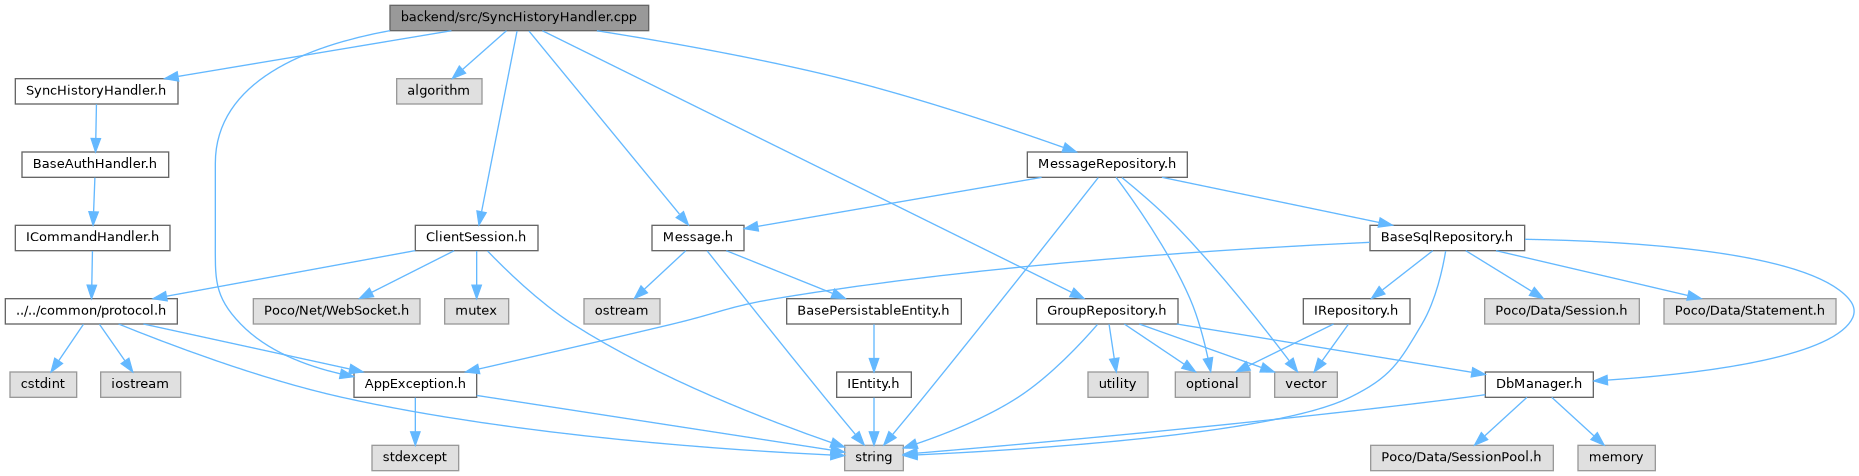
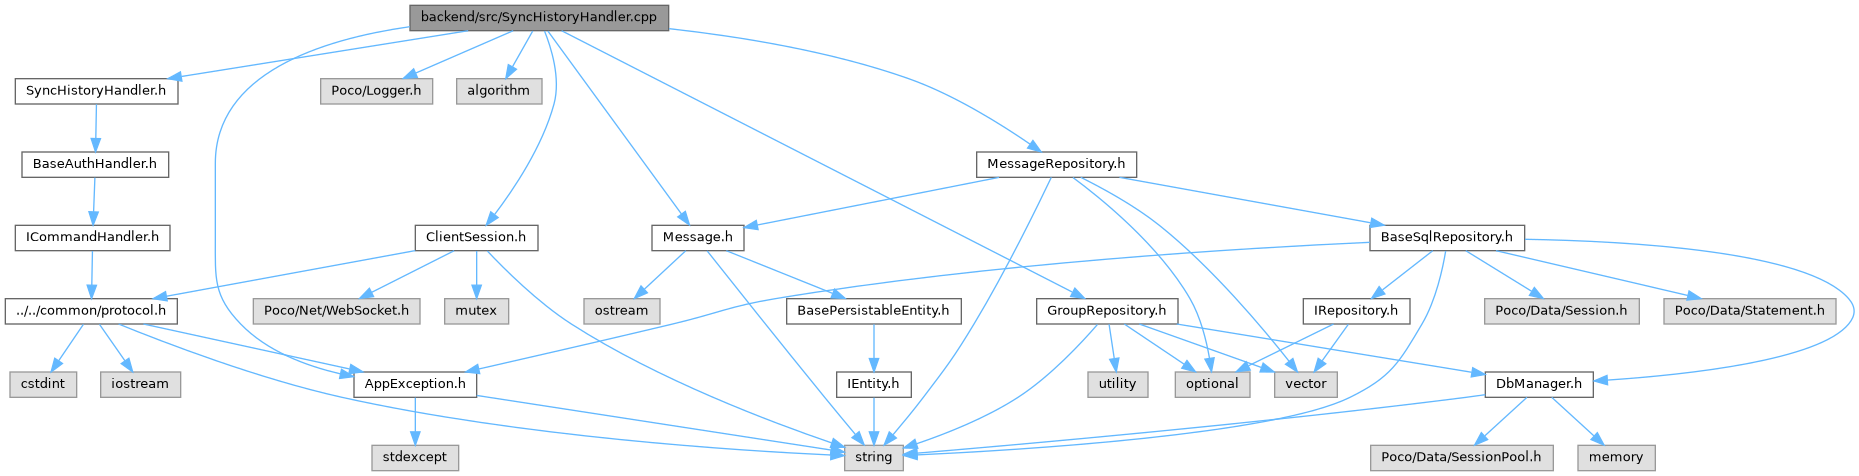
deploy: 4bb3781e60c52d7025261afa7cdc714544fd3718

diff --git a/NetworkManager_8h_source.html b/NetworkManager_8h_source.html
@@ -306,31 +306,31 @@ $(document).ready(function(){initNavTree('NetworkManager_8h_source.html',''); in
 <div class="ttc" id="aclassNetworkManager_html_a1be3096d9f6e5b0fd5faeb7f16dc3c7b"><div class="ttname"><a href="classNetworkManager.html#a1be3096d9f6e5b0fd5faeb7f16dc3c7b">NetworkManager::groupKeyUpdated</a></div><div class="ttdeci">void groupKeyUpdated(const QString &amp;groupId)</div><div class="ttdoc">Emitted when the group AES key is updated after a key rotation.</div></div>
 <div class="ttc" id="aclassNetworkManager_html_a1ebefc3b8b1ad69040decb2ed1f3cb57"><div class="ttname"><a href="classNetworkManager.html#a1ebefc3b8b1ad69040decb2ed1f3cb57">NetworkManager::groupMessageDecrypted</a></div><div class="ttdeci">void groupMessageDecrypted(const QString &amp;groupId, const QString &amp;sender, const QString &amp;plaintext, const QString &amp;timestamp, bool isOutgoing)</div><div class="ttdoc">Emitted when an incoming group message is successfully decrypted.</div></div>
 <div class="ttc" id="aclassNetworkManager_html_a257318584ac0bf9569d5873314ad5d82"><div class="ttname"><a href="classNetworkManager.html#a257318584ac0bf9569d5873314ad5d82">NetworkManager::convListUpdated</a></div><div class="ttdeci">void convListUpdated(const QString &amp;peer, const QString &amp;lastMessage, const QString &amp;lastTimestamp)</div><div class="ttdoc">Emitted after loading local history and on new messages - updates conversation list.</div></div>
-<div class="ttc" id="aclassNetworkManager_html_a2e9f2e60df7673bec45af42c104d4f72"><div class="ttname"><a href="classNetworkManager.html#a2e9f2e60df7673bec45af42c104d4f72">NetworkManager::logout</a></div><div class="ttdeci">Q_INVOKABLE void logout()</div><div class="ttdoc">Clear session state and return to login without closing the WebSocket.</div><div class="ttdef"><b>Definition</b> NetworkManager.cpp:371</div></div>
+<div class="ttc" id="aclassNetworkManager_html_a2e9f2e60df7673bec45af42c104d4f72"><div class="ttname"><a href="classNetworkManager.html#a2e9f2e60df7673bec45af42c104d4f72">NetworkManager::logout</a></div><div class="ttdeci">Q_INVOKABLE void logout()</div><div class="ttdoc">Clear session state and return to login without closing the WebSocket.</div><div class="ttdef"><b>Definition</b> NetworkManager.cpp:373</div></div>
 <div class="ttc" id="aclassNetworkManager_html_a2f815193125adfb0eb520665d8a87f5c"><div class="ttname"><a href="classNetworkManager.html#a2f815193125adfb0eb520665d8a87f5c">NetworkManager::sendLogin</a></div><div class="ttdeci">Q_INVOKABLE void sendLogin(const QString &amp;username, const QString &amp;password)</div><div class="ttdoc">Send a LOGIN packet with username and password.</div><div class="ttdef"><b>Definition</b> NetworkManager.cpp:60</div></div>
-<div class="ttc" id="aclassNetworkManager_html_a33e99021de03ebe32588f703e0a27cdc"><div class="ttname"><a href="classNetworkManager.html#a33e99021de03ebe32588f703e0a27cdc">NetworkManager::deleteGroup</a></div><div class="ttdeci">Q_INVOKABLE void deleteGroup(const QString &amp;groupId)</div><div class="ttdoc">Send DELETE_GROUP packet to permanently delete the group (creator only).</div><div class="ttdef"><b>Definition</b> NetworkManager.cpp:523</div></div>
+<div class="ttc" id="aclassNetworkManager_html_a33e99021de03ebe32588f703e0a27cdc"><div class="ttname"><a href="classNetworkManager.html#a33e99021de03ebe32588f703e0a27cdc">NetworkManager::deleteGroup</a></div><div class="ttdeci">Q_INVOKABLE void deleteGroup(const QString &amp;groupId)</div><div class="ttdoc">Send DELETE_GROUP packet to permanently delete the group (creator only).</div><div class="ttdef"><b>Definition</b> NetworkManager.cpp:525</div></div>
 <div class="ttc" id="aclassNetworkManager_html_a3c9d18963e77a155faf338b86927e2e5"><div class="ttname"><a href="classNetworkManager.html#a3c9d18963e77a155faf338b86927e2e5">NetworkManager::disconnected</a></div><div class="ttdeci">void disconnected()</div></div>
-<div class="ttc" id="aclassNetworkManager_html_a42fd9a51d9f3036d7156a0d64bdbd08d"><div class="ttname"><a href="classNetworkManager.html#a42fd9a51d9f3036d7156a0d64bdbd08d">NetworkManager::leaveGroup</a></div><div class="ttdeci">Q_INVOKABLE void leaveGroup(const QString &amp;groupId)</div><div class="ttdoc">Leave a group voluntarily.</div><div class="ttdef"><b>Definition</b> NetworkManager.cpp:515</div></div>
-<div class="ttc" id="aclassNetworkManager_html_a487b7f0a5ef2af0dfd9e2b53959d308c"><div class="ttname"><a href="classNetworkManager.html#a487b7f0a5ef2af0dfd9e2b53959d308c">NetworkManager::grantAdmin</a></div><div class="ttdeci">Q_INVOKABLE void grantAdmin(const QString &amp;groupId, const QString &amp;username)</div><div class="ttdoc">Creator: grant admin role to a member.</div><div class="ttdef"><b>Definition</b> NetworkManager.cpp:505</div></div>
-<div class="ttc" id="aclassNetworkManager_html_a4cbb3b8a327c5af1f67b65a8cfe0ab8d"><div class="ttname"><a href="classNetworkManager.html#a4cbb3b8a327c5af1f67b65a8cfe0ab8d">NetworkManager::sendGroupMessage</a></div><div class="ttdeci">Q_INVOKABLE void sendGroupMessage(const QString &amp;groupId, const QString &amp;plaintext, const QString &amp;timestamp)</div><div class="ttdoc">Encrypt and send a group message.</div><div class="ttdef"><b>Definition</b> NetworkManager.cpp:442</div></div>
+<div class="ttc" id="aclassNetworkManager_html_a42fd9a51d9f3036d7156a0d64bdbd08d"><div class="ttname"><a href="classNetworkManager.html#a42fd9a51d9f3036d7156a0d64bdbd08d">NetworkManager::leaveGroup</a></div><div class="ttdeci">Q_INVOKABLE void leaveGroup(const QString &amp;groupId)</div><div class="ttdoc">Leave a group voluntarily.</div><div class="ttdef"><b>Definition</b> NetworkManager.cpp:517</div></div>
+<div class="ttc" id="aclassNetworkManager_html_a487b7f0a5ef2af0dfd9e2b53959d308c"><div class="ttname"><a href="classNetworkManager.html#a487b7f0a5ef2af0dfd9e2b53959d308c">NetworkManager::grantAdmin</a></div><div class="ttdeci">Q_INVOKABLE void grantAdmin(const QString &amp;groupId, const QString &amp;username)</div><div class="ttdoc">Creator: grant admin role to a member.</div><div class="ttdef"><b>Definition</b> NetworkManager.cpp:507</div></div>
+<div class="ttc" id="aclassNetworkManager_html_a4cbb3b8a327c5af1f67b65a8cfe0ab8d"><div class="ttname"><a href="classNetworkManager.html#a4cbb3b8a327c5af1f67b65a8cfe0ab8d">NetworkManager::sendGroupMessage</a></div><div class="ttdeci">Q_INVOKABLE void sendGroupMessage(const QString &amp;groupId, const QString &amp;plaintext, const QString &amp;timestamp)</div><div class="ttdoc">Encrypt and send a group message.</div><div class="ttdef"><b>Definition</b> NetworkManager.cpp:444</div></div>
 <div class="ttc" id="aclassNetworkManager_html_a5a95bfdbdf91e47e8341ef89bae23b9d"><div class="ttname"><a href="classNetworkManager.html#a5a95bfdbdf91e47e8341ef89bae23b9d">NetworkManager::currentUsernameChanged</a></div><div class="ttdeci">void currentUsernameChanged()</div></div>
 <div class="ttc" id="aclassNetworkManager_html_a5e470cae21687ac465bd3ded727f5c88"><div class="ttname"><a href="classNetworkManager.html#a5e470cae21687ac465bd3ded727f5c88">NetworkManager::messageSeen</a></div><div class="ttdeci">void messageSeen(const QString &amp;peer, const QString &amp;timestamp)</div><div class="ttdoc">Emitted when the recipient confirms they have read a specific message.</div></div>
 <div class="ttc" id="aclassNetworkManager_html_a603d801e6200da430707381ba39241c2"><div class="ttname"><a href="classNetworkManager.html#a603d801e6200da430707381ba39241c2">NetworkManager::messageReceived</a></div><div class="ttdeci">void messageReceived(const QString &amp;message)</div><div class="ttdoc">Raw inbound wire message forwarded to QML.</div></div>
 <div class="ttc" id="aclassNetworkManager_html_a63f17e322ae0d09f6c0c1d8b9c54a0b5"><div class="ttname"><a href="classNetworkManager.html#a63f17e322ae0d09f6c0c1d8b9c54a0b5">NetworkManager::connectionChanged</a></div><div class="ttdeci">void connectionChanged()</div></div>
 <div class="ttc" id="aclassNetworkManager_html_a6b6ee9cf02e7df2a766d5db74c4d2125"><div class="ttname"><a href="classNetworkManager.html#a6b6ee9cf02e7df2a766d5db74c4d2125">NetworkManager::errorOcurred</a></div><div class="ttdeci">void errorOcurred(const QString &amp;errorString)</div></div>
-<div class="ttc" id="aclassNetworkManager_html_a755b08070053e360640b1b9caa4d737d"><div class="ttname"><a href="classNetworkManager.html#a755b08070053e360640b1b9caa4d737d">NetworkManager::createGroup</a></div><div class="ttdeci">Q_INVOKABLE void createGroup(const QString &amp;name, const QStringList &amp;members)</div><div class="ttdoc">Create a new group. Encrypts AES key for each member via RSA.</div><div class="ttdef"><b>Definition</b> NetworkManager.cpp:397</div></div>
+<div class="ttc" id="aclassNetworkManager_html_a755b08070053e360640b1b9caa4d737d"><div class="ttname"><a href="classNetworkManager.html#a755b08070053e360640b1b9caa4d737d">NetworkManager::createGroup</a></div><div class="ttdeci">Q_INVOKABLE void createGroup(const QString &amp;name, const QStringList &amp;members)</div><div class="ttdoc">Create a new group. Encrypts AES key for each member via RSA.</div><div class="ttdef"><b>Definition</b> NetworkManager.cpp:399</div></div>
 <div class="ttc" id="aclassNetworkManager_html_a91ed9c1374f6c18b78c66aec883da39a"><div class="ttname"><a href="classNetworkManager.html#a91ed9c1374f6c18b78c66aec883da39a">NetworkManager::syncComplete</a></div><div class="ttdeci">void syncComplete()</div><div class="ttdoc">Emitted after the server ACKs a SYNC_HISTORY request.</div></div>
 <div class="ttc" id="aclassNetworkManager_html_a9bc6679afab43814e185aecb262cedaa"><div class="ttname"><a href="classNetworkManager.html#a9bc6679afab43814e185aecb262cedaa">NetworkManager::markConversationRead</a></div><div class="ttdeci">Q_INVOKABLE void markConversationRead(const QString &amp;peer)</div><div class="ttdoc">Send READ_RECEIPT packets for all unread messages from peer.</div><div class="ttdef"><b>Definition</b> NetworkManager.cpp:99</div></div>
 <div class="ttc" id="aclassNetworkManager_html_a9cfd3cf00804e0f1daa8483507b0b9e6"><div class="ttname"><a href="classNetworkManager.html#a9cfd3cf00804e0f1daa8483507b0b9e6">NetworkManager::historySyncMessage</a></div><div class="ttdeci">void historySyncMessage(const QString &amp;peer, const QString &amp;sender, const QString &amp;content, const QString &amp;timestamp, bool isOutgoing, const QString &amp;status=&quot;sent&quot;)</div><div class="ttdoc">Emitted once per stored message during local history load on login.</div></div>
-<div class="ttc" id="aclassNetworkManager_html_a9fddd966911296b4a40f1fda0362f57a"><div class="ttname"><a href="classNetworkManager.html#a9fddd966911296b4a40f1fda0362f57a">NetworkManager::getGroupName</a></div><div class="ttdeci">Q_INVOKABLE QString getGroupName(const QString &amp;groupId) const</div><div class="ttdoc">Return the stored display name for a group, or groupId if unknown.</div><div class="ttdef"><b>Definition</b> NetworkManager.cpp:676</div></div>
+<div class="ttc" id="aclassNetworkManager_html_a9fddd966911296b4a40f1fda0362f57a"><div class="ttname"><a href="classNetworkManager.html#a9fddd966911296b4a40f1fda0362f57a">NetworkManager::getGroupName</a></div><div class="ttdeci">Q_INVOKABLE QString getGroupName(const QString &amp;groupId) const</div><div class="ttdoc">Return the stored display name for a group, or groupId if unknown.</div><div class="ttdef"><b>Definition</b> NetworkManager.cpp:678</div></div>
 <div class="ttc" id="aclassNetworkManager_html_aa077749a5aa5408084811f07643df6a9"><div class="ttname"><a href="classNetworkManager.html#aa077749a5aa5408084811f07643df6a9">NetworkManager::sendMessage</a></div><div class="ttdeci">Q_INVOKABLE void sendMessage(const QString &amp;to, const QString &amp;plaintext, const QString &amp;timestamp=QString())</div><div class="ttdoc">Encrypt plaintext and send a MESSAGE packet to 'to'.</div><div class="ttdef"><b>Definition</b> NetworkManager.cpp:69</div></div>
 <div class="ttc" id="aclassNetworkManager_html_aa2d7233230f2d609c31d9fd064c2f461"><div class="ttname"><a href="classNetworkManager.html#aa2d7233230f2d609c31d9fd064c2f461">NetworkManager::connected</a></div><div class="ttdeci">void connected()</div></div>
 <div class="ttc" id="aclassNetworkManager_html_aa5e7b25d9a603077169f10aa9bc0485d"><div class="ttname"><a href="classNetworkManager.html#aa5e7b25d9a603077169f10aa9bc0485d">NetworkManager::connectToServer</a></div><div class="ttdeci">void connectToServer(const QUrl &amp;url)</div><div class="ttdoc">Open a WebSocket connection to the given URL.</div><div class="ttdef"><b>Definition</b> NetworkManager.cpp:40</div></div>
 <div class="ttc" id="aclassNetworkManager_html_aa9be8fd0f61070537dcda37964be6986"><div class="ttname"><a href="classNetworkManager.html#aa9be8fd0f61070537dcda37964be6986">NetworkManager::fetchPeerKey</a></div><div class="ttdeci">Q_INVOKABLE void fetchPeerKey(const QString &amp;username)</div><div class="ttdoc">Request peer's RSA public key from the server.</div><div class="ttdef"><b>Definition</b> NetworkManager.cpp:79</div></div>
-<div class="ttc" id="aclassNetworkManager_html_ab0e4e845f992abd7842feb9ef8a83ae3"><div class="ttname"><a href="classNetworkManager.html#ab0e4e845f992abd7842feb9ef8a83ae3">NetworkManager::addGroupMember</a></div><div class="ttdeci">Q_INVOKABLE void addGroupMember(const QString &amp;groupId, const QString &amp;username)</div><div class="ttdoc">Admin: add a new member to a group.</div><div class="ttdef"><b>Definition</b> NetworkManager.cpp:481</div></div>
+<div class="ttc" id="aclassNetworkManager_html_ab0e4e845f992abd7842feb9ef8a83ae3"><div class="ttname"><a href="classNetworkManager.html#ab0e4e845f992abd7842feb9ef8a83ae3">NetworkManager::addGroupMember</a></div><div class="ttdeci">Q_INVOKABLE void addGroupMember(const QString &amp;groupId, const QString &amp;username)</div><div class="ttdoc">Admin: add a new member to a group.</div><div class="ttdef"><b>Definition</b> NetworkManager.cpp:483</div></div>
 <div class="ttc" id="aclassNetworkManager_html_ab7c6e64b70fa96f558f026d263f1424b"><div class="ttname"><a href="classNetworkManager.html#ab7c6e64b70fa96f558f026d263f1424b">NetworkManager::groupInviteReceived</a></div><div class="ttdeci">void groupInviteReceived(const QString &amp;groupId, const QString &amp;groupName)</div><div class="ttdoc">Emitted when the server sends a GROUP_INVITE packet for the current user.</div></div>
 <div class="ttc" id="aclassNetworkManager_html_abd6c36aa7591e7b20dcf761b90e718fa"><div class="ttname"><a href="classNetworkManager.html#abd6c36aa7591e7b20dcf761b90e718fa">NetworkManager::groupInfoReceived</a></div><div class="ttdeci">void groupInfoReceived(const QString &amp;groupId, const QString &amp;groupName, const QVariantList &amp;members)</div><div class="ttdoc">Emitted when group info (member list, roles) is received from the server.</div></div>
-<div class="ttc" id="aclassNetworkManager_html_ac08ca33cae1af5055a9d188b7ca65250"><div class="ttname"><a href="classNetworkManager.html#ac08ca33cae1af5055a9d188b7ca65250">NetworkManager::deleteConversation</a></div><div class="ttdeci">Q_INVOKABLE void deleteConversation(const QString &amp;peer)</div><div class="ttdoc">Delete a conversation from local cache. Messages stay on the server.</div><div class="ttdef"><b>Definition</b> NetworkManager.cpp:531</div></div>
+<div class="ttc" id="aclassNetworkManager_html_ac08ca33cae1af5055a9d188b7ca65250"><div class="ttname"><a href="classNetworkManager.html#ac08ca33cae1af5055a9d188b7ca65250">NetworkManager::deleteConversation</a></div><div class="ttdeci">Q_INVOKABLE void deleteConversation(const QString &amp;peer)</div><div class="ttdoc">Delete a conversation from local cache. Messages stay on the server.</div><div class="ttdef"><b>Definition</b> NetworkManager.cpp:533</div></div>
 <div class="ttc" id="aclassNetworkManager_html_ac80ed49c1ac856357e683ab36e2c6ff4"><div class="ttname"><a href="classNetworkManager.html#ac80ed49c1ac856357e683ab36e2c6ff4">NetworkManager::conversationDeleted</a></div><div class="ttdeci">void conversationDeleted(const QString &amp;peer)</div><div class="ttdoc">Emitted after a conversation is deleted from local cache.</div></div>
 <div class="ttc" id="aclassNetworkManager_html_acb5092184a7b088b3fa60f61106320cb"><div class="ttname"><a href="classNetworkManager.html#acb5092184a7b088b3fa60f61106320cb">NetworkManager::lastMessage</a></div><div class="ttdeci">QString lastMessage</div><div class="ttdef"><b>Definition</b> NetworkManager.h:31</div></div>
 <div class="ttc" id="aclassNetworkManager_html_ad0d5ac1ac81e96aa4c99b5399122c887"><div class="ttname"><a href="classNetworkManager.html#ad0d5ac1ac81e96aa4c99b5399122c887">NetworkManager::peerKeyReceived</a></div><div class="ttdeci">void peerKeyReceived(const QString &amp;username, const QString &amp;publicKey)</div><div class="ttdoc">Emitted when a KEY_EXCHANGE response delivers a peer's public key.</div></div>
@@ -338,12 +338,12 @@ $(document).ready(function(){initNavTree('NetworkManager_8h_source.html',''); in
 <div class="ttc" id="aclassNetworkManager_html_ad1a01cd412a0dde3f4e1dc77ad46e253"><div class="ttname"><a href="classNetworkManager.html#ad1a01cd412a0dde3f4e1dc77ad46e253">NetworkManager::sendSyncHistory</a></div><div class="ttdeci">Q_INVOKABLE void sendSyncHistory()</div><div class="ttdoc">Ask the server to push all missed messages for current user.</div><div class="ttdef"><b>Definition</b> NetworkManager.cpp:87</div></div>
 <div class="ttc" id="aclassNetworkManager_html_ae433b408a3a5b19bc4155008aa2f93ea"><div class="ttname"><a href="classNetworkManager.html#ae433b408a3a5b19bc4155008aa2f93ea">NetworkManager::lastMessageChanged</a></div><div class="ttdeci">void lastMessageChanged()</div></div>
 <div class="ttc" id="aclassNetworkManager_html_ae7c5fa5545a263b2e75c41b9aaa6f2ba"><div class="ttname"><a href="classNetworkManager.html#ae7c5fa5545a263b2e75c41b9aaa6f2ba">NetworkManager::groupConvUpdated</a></div><div class="ttdeci">void groupConvUpdated(const QString &amp;groupId, const QString &amp;groupName, const QString &amp;lastMessage, const QString &amp;lastTimestamp)</div><div class="ttdoc">Emitted once per group during local history load for sidebar population.</div></div>
-<div class="ttc" id="aclassNetworkManager_html_ae8e6cd3d31f5d221cabad85e21ddc009"><div class="ttname"><a href="classNetworkManager.html#ae8e6cd3d31f5d221cabad85e21ddc009">NetworkManager::fetchGroupInfo</a></div><div class="ttdeci">Q_INVOKABLE void fetchGroupInfo(const QString &amp;groupId)</div><div class="ttdoc">Request updated group info (member list, roles).</div><div class="ttdef"><b>Definition</b> NetworkManager.cpp:536</div></div>
+<div class="ttc" id="aclassNetworkManager_html_ae8e6cd3d31f5d221cabad85e21ddc009"><div class="ttname"><a href="classNetworkManager.html#ae8e6cd3d31f5d221cabad85e21ddc009">NetworkManager::fetchGroupInfo</a></div><div class="ttdeci">Q_INVOKABLE void fetchGroupInfo(const QString &amp;groupId)</div><div class="ttdoc">Request updated group info (member list, roles).</div><div class="ttdef"><b>Definition</b> NetworkManager.cpp:538</div></div>
 <div class="ttc" id="aclassNetworkManager_html_af0902bd618f601ae0c472243a8a3e9bc"><div class="ttname"><a href="classNetworkManager.html#af0902bd618f601ae0c472243a8a3e9bc">NetworkManager::groupLeft</a></div><div class="ttdeci">void groupLeft(const QString &amp;groupId)</div><div class="ttdoc">Emitted when the current user has successfully left a group.</div></div>
-<div class="ttc" id="aclassNetworkManager_html_af19a5e79c92bb2c5beb0e4bcd2f8c2a2"><div class="ttname"><a href="classNetworkManager.html#af19a5e79c92bb2c5beb0e4bcd2f8c2a2">NetworkManager::kickMember</a></div><div class="ttdeci">Q_INVOKABLE void kickMember(const QString &amp;groupId, const QString &amp;username)</div><div class="ttdoc">Admin: kick a member from a group.</div><div class="ttdef"><b>Definition</b> NetworkManager.cpp:472</div></div>
+<div class="ttc" id="aclassNetworkManager_html_af19a5e79c92bb2c5beb0e4bcd2f8c2a2"><div class="ttname"><a href="classNetworkManager.html#af19a5e79c92bb2c5beb0e4bcd2f8c2a2">NetworkManager::kickMember</a></div><div class="ttdeci">Q_INVOKABLE void kickMember(const QString &amp;groupId, const QString &amp;username)</div><div class="ttdoc">Admin: kick a member from a group.</div><div class="ttdef"><b>Definition</b> NetworkManager.cpp:474</div></div>
 <div class="ttc" id="aclassNetworkManager_html_af4a48bde3701cd396dc455b413b3e8f6"><div class="ttname"><a href="classNetworkManager.html#af4a48bde3701cd396dc455b413b3e8f6">NetworkManager::messageDelivered</a></div><div class="ttdeci">void messageDelivered(const QString &amp;timestamp)</div><div class="ttdoc">Emitted when the server confirms receipt of an outgoing message.</div></div>
 <div class="ttc" id="aclassNetworkManager_html_af4bbe1ae11e54eb1c5a7f1ce07a51af2"><div class="ttname"><a href="classNetworkManager.html#af4bbe1ae11e54eb1c5a7f1ce07a51af2">NetworkManager::isConnected</a></div><div class="ttdeci">bool isConnected</div><div class="ttdef"><b>Definition</b> NetworkManager.h:30</div></div>
-<div class="ttc" id="aclassNetworkManager_html_aff1ef88014dd9590fa629dc0ddada3b8"><div class="ttname"><a href="classNetworkManager.html#aff1ef88014dd9590fa629dc0ddada3b8">NetworkManager::requestGroupKey</a></div><div class="ttdeci">void requestGroupKey(const QString &amp;groupId)</div><div class="ttdoc">Recover this user's wrapped group key from the server.</div><div class="ttdef"><b>Definition</b> NetworkManager.cpp:431</div></div>
+<div class="ttc" id="aclassNetworkManager_html_aff1ef88014dd9590fa629dc0ddada3b8"><div class="ttname"><a href="classNetworkManager.html#aff1ef88014dd9590fa629dc0ddada3b8">NetworkManager::requestGroupKey</a></div><div class="ttdeci">void requestGroupKey(const QString &amp;groupId)</div><div class="ttdoc">Recover this user's wrapped group key from the server.</div><div class="ttdef"><b>Definition</b> NetworkManager.cpp:433</div></div>
 <div class="ttc" id="astructPacket_html"><div class="ttname"><a href="structPacket.html">Packet</a></div><div class="ttdef"><b>Definition</b> protocol.h:35</div></div>
 </div><!-- fragment --></div><!-- contents -->
 </div><!-- doc-content -->

diff --git a/SyncHistoryHandler_8cpp.html b/SyncHistoryHandler_8cpp.html
@@ -93,6 +93,7 @@ $(document).ready(function(){initNavTree('SyncHistoryHandler_8cpp.html',''); ini
 </div><!--header-->
 <div class="contents">
 <div class="textblock"><code>#include &quot;<a class="el" href="SyncHistoryHandler_8h_source.html">SyncHistoryHandler.h</a>&quot;</code><br />
+<code>#include &lt;Poco/Logger.h&gt;</code><br />
 <code>#include &lt;algorithm&gt;</code><br />
 <code>#include &quot;<a class="el" href="AppException_8h_source.html">../../common/AppException.h</a>&quot;</code><br />
 <code>#include &quot;<a class="el" href="ClientSession_8h_source.html">ClientSession.h</a>&quot;</code><br />
@@ -104,21 +105,23 @@ Include dependency graph for SyncHistoryHandler.cpp:</div>
 <div class="dyncontent">
 <div class="center"><img src="SyncHistoryHandler_8cpp__incl.png" border="0" usemap="#abackend_2src_2SyncHistoryHandler_8cpp" alt=""/></div>
 <map name="abackend_2src_2SyncHistoryHandler_8cpp" id="abackend_2src_2SyncHistoryHandler_8cpp">
-<area shape="rect" title=" " alt="" coords="390,5,649,31"/>
+<area shape="rect" title=" " alt="" coords="410,5,669,31"/>
 <area shape="rect" href="SyncHistoryHandler_8h.html" title=" " alt="" coords="15,79,178,104"/>
-<area shape="poly" title=" " alt="" coords="452,33,179,79,178,74,451,28"/>
+<area shape="poly" title=" " alt="" coords="469,33,182,79,181,74,468,28"/>
 <area shape="rect" href="AppException_8h.html" title=" " alt="" coords="354,372,477,397"/>
-<area shape="poly" title=" " alt="" coords="391,33,329,49,273,74,251,91,233,111,222,135,218,164,218,239,220,285,228,303,243,322,264,340,288,354,341,371,339,376,286,358,261,344,239,326,223,306,215,286,213,239,213,163,217,134,229,109,247,87,270,70,327,44,389,28"/>
-<area shape="rect" title=" " alt="" coords="397,79,482,104"/>
-<area shape="poly" title=" " alt="" coords="508,33,464,72,461,68,505,29"/>
+<area shape="poly" title=" " alt="" coords="410,29,342,43,310,54,280,69,255,86,235,108,223,133,218,164,218,239,220,285,228,303,243,322,264,340,288,354,341,371,339,376,286,358,261,344,239,326,223,306,215,286,213,239,213,163,217,132,231,105,251,82,277,64,308,50,341,38,409,24"/>
+<area shape="rect" title=" " alt="" coords="321,79,433,104"/>
+<area shape="poly" title=" " alt="" coords="514,33,417,75,415,71,512,28"/>
+<area shape="rect" title=" " alt="" coords="457,79,542,104"/>
+<area shape="poly" title=" " alt="" coords="535,32,515,68,510,65,530,30"/>
 <area shape="rect" href="ClientSession_8h.html" title=" " alt="" coords="415,225,538,251"/>
-<area shape="poly" title=" " alt="" coords="520,32,484,212,479,211,514,31"/>
+<area shape="poly" title=" " alt="" coords="547,30,557,64,559,84,557,105,545,137,529,167,497,216,492,213,525,164,540,135,551,103,554,84,552,65,542,32"/>
 <area shape="rect" href="GroupRepository_8h.html" title=" " alt="" coords="1037,299,1178,324"/>
-<area shape="poly" title=" " alt="" coords="544,28,1073,290,1070,295,541,33"/>
+<area shape="poly" title=" " alt="" coords="563,28,1073,290,1071,294,560,33"/>
 <area shape="rect" href="Message_8h.html" title=" " alt="" coords="652,225,744,251"/>
-<area shape="poly" title=" " alt="" coords="531,29,681,212,677,216,527,33"/>
-<area shape="rect" href="MessageRepository_8h.html" title=" " alt="" coords="1027,152,1187,177"/>
-<area shape="poly" title=" " alt="" coords="597,28,714,48,843,76,964,111,1064,145,1063,150,962,116,841,81,712,53,596,33"/>
+<area shape="poly" title=" " alt="" coords="550,29,684,213,679,216,546,33"/>
+<area shape="rect" href="MessageRepository_8h.html" title=" " alt="" coords="977,152,1137,177"/>
+<area shape="poly" title=" " alt="" coords="669,26,788,44,850,58,910,76,977,108,1032,142,1029,146,974,112,908,81,848,63,787,49,669,31"/>
 <area shape="rect" href="BaseAuthHandler_8h.html" title=" " alt="" coords="22,152,169,177"/>
 <area shape="poly" title=" " alt="" coords="99,104,98,139,93,138,94,104"/>
 <area shape="rect" href="ICommandHandler_8h.html" title=" " alt="" coords="15,225,170,251"/>
@@ -136,7 +139,7 @@ Include dependency graph for SyncHistoryHandler.cpp:</div>
 <area shape="rect" title=" " alt="" coords="372,445,459,471"/>
 <area shape="poly" title=" " alt="" coords="418,398,418,432,413,432,413,398"/>
 <area shape="poly" title=" " alt="" coords="416,253,167,299,166,294,415,248"/>
-<area shape="poly" title=" " alt="" coords="489,249,525,284,574,322,642,360,713,394,832,440,831,445,711,399,640,365,571,326,522,288,486,253"/>
+<area shape="poly" title=" " alt="" coords="489,249,525,284,573,322,641,361,712,394,833,440,831,445,710,399,639,365,570,326,521,288,485,253"/>
 <area shape="rect" title=" " alt="" coords="253,299,420,324"/>
 <area shape="poly" title=" " alt="" coords="455,253,373,295,370,290,453,248"/>
 <area shape="rect" title=" " alt="" coords="445,299,509,324"/>
@@ -163,12 +166,12 @@ Include dependency graph for SyncHistoryHandler.cpp:</div>
 <area shape="rect" href="IEntity_8h.html" title=" " alt="" coords="837,372,911,397"/>
 <area shape="poly" title=" " alt="" coords="877,324,877,358,871,358,871,324"/>
 <area shape="poly" title=" " alt="" coords="877,398,877,432,871,432,871,398"/>
-<area shape="poly" title=" " alt="" coords="1100,179,925,399,895,436,891,433,921,396,1096,176"/>
-<area shape="poly" title=" " alt="" coords="1118,176,1154,227,1192,298,1211,357,1205,359,1188,300,1149,230,1114,179"/>
-<area shape="poly" title=" " alt="" coords="1124,176,1177,223,1242,296,1291,359,1287,362,1238,300,1173,227,1120,180"/>
-<area shape="poly" title=" " alt="" coords="1042,180,758,229,758,224,1041,175"/>
+<area shape="poly" title=" " alt="" coords="1054,179,1022,242,976,325,925,399,895,436,891,433,921,396,972,323,1018,239,1049,176"/>
+<area shape="poly" title=" " alt="" coords="1075,175,1132,224,1165,258,1192,297,1205,328,1212,357,1207,359,1200,329,1188,300,1161,262,1129,228,1071,180"/>
+<area shape="poly" title=" " alt="" coords="1082,175,1120,196,1161,223,1200,258,1236,295,1291,360,1287,363,1233,299,1196,262,1158,227,1117,200,1080,180"/>
+<area shape="poly" title=" " alt="" coords="1000,180,758,228,757,222,999,175"/>
 <area shape="rect" href="BaseSqlRepository_8h.html" title=" " alt="" coords="1370,225,1525,251"/>
-<area shape="poly" title=" " alt="" coords="1163,175,1380,220,1379,225,1161,180"/>
+<area shape="poly" title=" " alt="" coords="1120,175,1371,220,1370,225,1119,180"/>
 <area shape="poly" title=" " alt="" coords="1448,252,1441,286,1424,325,1395,370,1377,385,1351,400,1315,413,1265,424,1144,441,1017,452,917,458,917,452,1017,447,1143,436,1264,419,1313,408,1349,395,1374,381,1391,366,1420,323,1436,284,1443,250"/>
 <area shape="poly" title=" " alt="" coords="1370,245,1106,262,941,278,776,301,724,313,673,327,480,372,478,366,672,321,723,308,775,296,940,273,1105,257,1370,240"/>
 <area shape="poly" title=" " alt="" coords="1525,237,1614,240,1711,249,1796,267,1829,280,1851,297,1857,311,1851,326,1834,339,1811,350,1748,366,1676,377,1608,383,1607,377,1675,371,1747,361,1809,345,1832,334,1847,322,1851,311,1847,300,1826,285,1795,272,1710,254,1614,245,1525,242"/>

diff --git a/GroupRepository_8h_source.html b/GroupRepository_8h_source.html
@@ -168,7 +168,7 @@ $(document).ready(function(){initNavTree('GroupRepository_8h_source.html',''); i
 <div class="ttc" id="aDbManager_8h_html"><div class="ttname"><a href="DbManager_8h.html">DbManager.h</a></div></div>
 <div class="ttc" id="aclassGroupRepository_html"><div class="ttname"><a href="classGroupRepository.html">GroupRepository</a></div><div class="ttdoc">PostgreSQL-backed repository for groups, group_members, group_keys, group_messages.</div><div class="ttdef"><b>Definition</b> GroupRepository.h:46</div></div>
 <div class="ttc" id="aclassGroupRepository_html_a0639709942f521cf2d115b8d256debb5"><div class="ttname"><a href="classGroupRepository.html#a0639709942f521cf2d115b8d256debb5">GroupRepository::removeMember</a></div><div class="ttdeci">void removeMember(int groupId, const std::string &amp;username)</div><div class="ttdoc">Remove a member from a group.</div><div class="ttdef"><b>Definition</b> GroupRepository.cpp:59</div></div>
-<div class="ttc" id="aclassGroupRepository_html_a06d238dce5bbf0fbf0e4e6f4a3babcda"><div class="ttname"><a href="classGroupRepository.html#a06d238dce5bbf0fbf0e4e6f4a3babcda">GroupRepository::updateRole</a></div><div class="ttdeci">void updateRole(int groupId, const std::string &amp;username, const std::string &amp;newRole)</div><div class="ttdoc">Update a member's role.</div><div class="ttdef"><b>Definition</b> GroupRepository.cpp:244</div></div>
+<div class="ttc" id="aclassGroupRepository_html_a06d238dce5bbf0fbf0e4e6f4a3babcda"><div class="ttname"><a href="classGroupRepository.html#a06d238dce5bbf0fbf0e4e6f4a3babcda">GroupRepository::updateRole</a></div><div class="ttdeci">void updateRole(int groupId, const std::string &amp;username, const std::string &amp;newRole)</div><div class="ttdoc">Update a member's role.</div><div class="ttdef"><b>Definition</b> GroupRepository.cpp:246</div></div>
 <div class="ttc" id="aclassGroupRepository_html_a17d03d42dbffe98ded5ed2ca331bbb51"><div class="ttname"><a href="classGroupRepository.html#a17d03d42dbffe98ded5ed2ca331bbb51">GroupRepository::getMembers</a></div><div class="ttdeci">std::vector&lt; GroupMember &gt; getMembers(int groupId)</div><div class="ttdoc">Return all members of a group.</div><div class="ttdef"><b>Definition</b> GroupRepository.cpp:74</div></div>
 <div class="ttc" id="aclassGroupRepository_html_a40a74b65a9eac1404fea482aaf2cae5a"><div class="ttname"><a href="classGroupRepository.html#a40a74b65a9eac1404fea482aaf2cae5a">GroupRepository::GroupRepository</a></div><div class="ttdeci">GroupRepository()=default</div></div>
 <div class="ttc" id="aclassGroupRepository_html_a5a98288d1da2555191f37e8effa76572"><div class="ttname"><a href="classGroupRepository.html#a5a98288d1da2555191f37e8effa76572">GroupRepository::saveMessage</a></div><div class="ttdeci">int saveMessage(int groupId, const std::string &amp;sender, const std::string &amp;encryptedBody, const std::string &amp;timestamp)</div><div class="ttdoc">Persist a group message.</div><div class="ttdef"><b>Definition</b> GroupRepository.cpp:166</div></div>
@@ -179,7 +179,7 @@ $(document).ready(function(){initNavTree('GroupRepository_8h_source.html',''); i
 <div class="ttc" id="aclassGroupRepository_html_ab6756c8118c036d8d64133c705b52ef0"><div class="ttname"><a href="classGroupRepository.html#ab6756c8118c036d8d64133c705b52ef0">GroupRepository::createGroup</a></div><div class="ttdeci">int createGroup(const std::string &amp;name, const std::string &amp;creator)</div><div class="ttdoc">Insert a new group row.</div><div class="ttdef"><b>Definition</b> GroupRepository.cpp:11</div></div>
 <div class="ttc" id="aclassGroupRepository_html_acdfd6c8af390ecf504982ea3ff18df64"><div class="ttname"><a href="classGroupRepository.html#acdfd6c8af390ecf504982ea3ff18df64">GroupRepository::getKey</a></div><div class="ttdeci">std::optional&lt; std::string &gt; getKey(int groupId, const std::string &amp;username)</div><div class="ttdoc">Return the encrypted AES key for a specific member.</div><div class="ttdef"><b>Definition</b> GroupRepository.cpp:150</div></div>
 <div class="ttc" id="aclassGroupRepository_html_ad2e77b670cda032065be426595de442f"><div class="ttname"><a href="classGroupRepository.html#ad2e77b670cda032065be426595de442f">GroupRepository::findGroupById</a></div><div class="ttdeci">std::optional&lt; GroupInfo &gt; findGroupById(int groupId)</div><div class="ttdoc">Fetch group metadata by id.</div><div class="ttdef"><b>Definition</b> GroupRepository.cpp:27</div></div>
-<div class="ttc" id="aclassGroupRepository_html_adc428b34520bfcb965666a06f4593f67"><div class="ttname"><a href="classGroupRepository.html#adc428b34520bfcb965666a06f4593f67">GroupRepository::memberCount</a></div><div class="ttdeci">int memberCount(int groupId)</div><div class="ttdoc">Return the number of members in a group.</div><div class="ttdef"><b>Definition</b> GroupRepository.cpp:232</div></div>
+<div class="ttc" id="aclassGroupRepository_html_adc428b34520bfcb965666a06f4593f67"><div class="ttname"><a href="classGroupRepository.html#adc428b34520bfcb965666a06f4593f67">GroupRepository::memberCount</a></div><div class="ttdeci">int memberCount(int groupId)</div><div class="ttdoc">Return the number of members in a group.</div><div class="ttdef"><b>Definition</b> GroupRepository.cpp:234</div></div>
 <div class="ttc" id="aclassGroupRepository_html_adedb41fba71229539d5e7fec370c8038"><div class="ttname"><a href="classGroupRepository.html#adedb41fba71229539d5e7fec370c8038">GroupRepository::addMember</a></div><div class="ttdeci">void addMember(int groupId, const std::string &amp;username, const std::string &amp;role)</div><div class="ttdoc">Add a member to a group with the given role.</div><div class="ttdef"><b>Definition</b> GroupRepository.cpp:44</div></div>
 <div class="ttc" id="astructGroupInfo_html"><div class="ttname"><a href="structGroupInfo.html">GroupInfo</a></div><div class="ttdoc">Metadata for a group returned by GroupRepository::findGroupById.</div><div class="ttdef"><b>Definition</b> GroupRepository.h:12</div></div>
 <div class="ttc" id="astructGroupInfo_html_a23fe0f05d4856e231c3aacf5fe939b9a"><div class="ttname"><a href="structGroupInfo.html#a23fe0f05d4856e231c3aacf5fe939b9a">GroupInfo::creator</a></div><div class="ttdeci">std::string creator</div><div class="ttdef"><b>Definition</b> GroupRepository.h:15</div></div>

diff --git a/MessageRepository_8h_source.html b/MessageRepository_8h_source.html
@@ -131,7 +131,7 @@ $(document).ready(function(){initNavTree('MessageRepository_8h_source.html','');
 <div class="ttc" id="aclassMessageRepository_html_a4be46cf9575a16d4b85cc59f48a14ab0"><div class="ttname"><a href="classMessageRepository.html#a4be46cf9575a16d4b85cc59f48a14ab0">MessageRepository::MessageRepository</a></div><div class="ttdeci">MessageRepository()</div><div class="ttdef"><b>Definition</b> MessageRepository.h:17</div></div>
 <div class="ttc" id="aclassMessageRepository_html_a89b91e532b78180e46a42ace2d348ffe"><div class="ttname"><a href="classMessageRepository.html#a89b91e532b78180e46a42ace2d348ffe">MessageRepository::findByRecipient</a></div><div class="ttdeci">std::vector&lt; Message &gt; findByRecipient(const std::string &amp;recipient)</div><div class="ttdoc">Find all messages sent to a given recipient.</div><div class="ttdef"><b>Definition</b> MessageRepository.cpp:91</div></div>
 <div class="ttc" id="aclassMessageRepository_html_aa07bc2bb626fc17580646e7598747cf6"><div class="ttname"><a href="classMessageRepository.html#aa07bc2bb626fc17580646e7598747cf6">MessageRepository::save</a></div><div class="ttdeci">void save(const Message &amp;msg) override</div><div class="ttdef"><b>Definition</b> MessageRepository.cpp:61</div></div>
-<div class="ttc" id="aclassMessageRepository_html_aa38f2f8ffa32af9b971e8772053cd827"><div class="ttname"><a href="classMessageRepository.html#aa38f2f8ffa32af9b971e8772053cd827">MessageRepository::findBySender</a></div><div class="ttdeci">std::vector&lt; Message &gt; findBySender(const std::string &amp;sender)</div><div class="ttdoc">Find all messages sent by a given sender.</div><div class="ttdef"><b>Definition</b> MessageRepository.cpp:163</div></div>
+<div class="ttc" id="aclassMessageRepository_html_aa38f2f8ffa32af9b971e8772053cd827"><div class="ttname"><a href="classMessageRepository.html#aa38f2f8ffa32af9b971e8772053cd827">MessageRepository::findBySender</a></div><div class="ttdeci">std::vector&lt; Message &gt; findBySender(const std::string &amp;sender)</div><div class="ttdoc">Find all messages sent by a given sender.</div><div class="ttdef"><b>Definition</b> MessageRepository.cpp:165</div></div>
 <div class="ttc" id="aclassMessageRepository_html_aa88e1ec09b7c0dbcbe84e410b391d6d3"><div class="ttname"><a href="classMessageRepository.html#aa88e1ec09b7c0dbcbe84e410b391d6d3">MessageRepository::findAll</a></div><div class="ttdeci">std::vector&lt; Message &gt; findAll() override</div><div class="ttdoc">Return all records in the table.</div><div class="ttdef"><b>Definition</b> MessageRepository.cpp:37</div></div>
 <div class="ttc" id="aclassMessageRepository_html_ac55c1e302a265a5aab8234d5fb9ab32e"><div class="ttname"><a href="classMessageRepository.html#ac55c1e302a265a5aab8234d5fb9ab32e">MessageRepository::~MessageRepository</a></div><div class="ttdeci">~MessageRepository()=default</div></div>
 <div class="ttc" id="aclassMessageRepository_html_ad7177fbea34291fcd2cb015c7b63f88a"><div class="ttname"><a href="classMessageRepository.html#ad7177fbea34291fcd2cb015c7b63f88a">MessageRepository::findAllForUser</a></div><div class="ttdeci">std::vector&lt; Message &gt; findAllForUser(const std::string &amp;username, const std::string &amp;afterTimestamp=&quot;&quot;)</div><div class="ttdoc">Find all messages where user is sender or recipient, with created_at strictly after the given ISO 860...</div><div class="ttdef"><b>Definition</b> MessageRepository.cpp:118</div></div>

diff --git a/SyncHistoryHandler_8h_source.html b/SyncHistoryHandler_8h_source.html
@@ -111,8 +111,8 @@ $(document).ready(function(){initNavTree('SyncHistoryHandler_8h_source.html','')
 <div class="ttc" id="aclassBaseAuthHandler_html"><div class="ttname"><a href="classBaseAuthHandler.html">BaseAuthHandler</a></div><div class="ttdoc">L2 abstract handler for packet types that require an authenticated session.</div><div class="ttdef"><b>Definition</b> BaseAuthHandler.h:12</div></div>
 <div class="ttc" id="aclassClientSession_html"><div class="ttname"><a href="classClientSession.html">ClientSession</a></div><div class="ttdoc">Represents one live WebSocket connection.</div><div class="ttdef"><b>Definition</b> ClientSession.h:19</div></div>
 <div class="ttc" id="aclassSyncHistoryHandler_html"><div class="ttname"><a href="classSyncHistoryHandler.html">SyncHistoryHandler</a></div><div class="ttdoc">Handles SYNC_HISTORY packets. L3 under BaseAuthHandler.</div><div class="ttdef"><b>Definition</b> SyncHistoryHandler.h:10</div></div>
-<div class="ttc" id="aclassSyncHistoryHandler_html_aad6d17f639ca81fff21326f86370f7ca"><div class="ttname"><a href="classSyncHistoryHandler.html#aad6d17f639ca81fff21326f86370f7ca">SyncHistoryHandler::validate</a></div><div class="ttdeci">void validate(const Packet &amp;packet) override</div><div class="ttdef"><b>Definition</b> SyncHistoryHandler.cpp:11</div></div>
-<div class="ttc" id="aclassSyncHistoryHandler_html_ab7a95fcba3e93244cfdcfe0dbf52ff9a"><div class="ttname"><a href="classSyncHistoryHandler.html#ab7a95fcba3e93244cfdcfe0dbf52ff9a">SyncHistoryHandler::execute</a></div><div class="ttdeci">void execute(Packet &amp;packet, ClientSession &amp;session) override</div><div class="ttdef"><b>Definition</b> SyncHistoryHandler.cpp:15</div></div>
+<div class="ttc" id="aclassSyncHistoryHandler_html_aad6d17f639ca81fff21326f86370f7ca"><div class="ttname"><a href="classSyncHistoryHandler.html#aad6d17f639ca81fff21326f86370f7ca">SyncHistoryHandler::validate</a></div><div class="ttdeci">void validate(const Packet &amp;packet) override</div><div class="ttdef"><b>Definition</b> SyncHistoryHandler.cpp:13</div></div>
+<div class="ttc" id="aclassSyncHistoryHandler_html_ab7a95fcba3e93244cfdcfe0dbf52ff9a"><div class="ttname"><a href="classSyncHistoryHandler.html#ab7a95fcba3e93244cfdcfe0dbf52ff9a">SyncHistoryHandler::execute</a></div><div class="ttdeci">void execute(Packet &amp;packet, ClientSession &amp;session) override</div><div class="ttdef"><b>Definition</b> SyncHistoryHandler.cpp:17</div></div>
 <div class="ttc" id="astructPacket_html"><div class="ttname"><a href="structPacket.html">Packet</a></div><div class="ttdef"><b>Definition</b> protocol.h:35</div></div>
 </div><!-- fragment --></div><!-- contents -->
 </div><!-- doc-content -->
